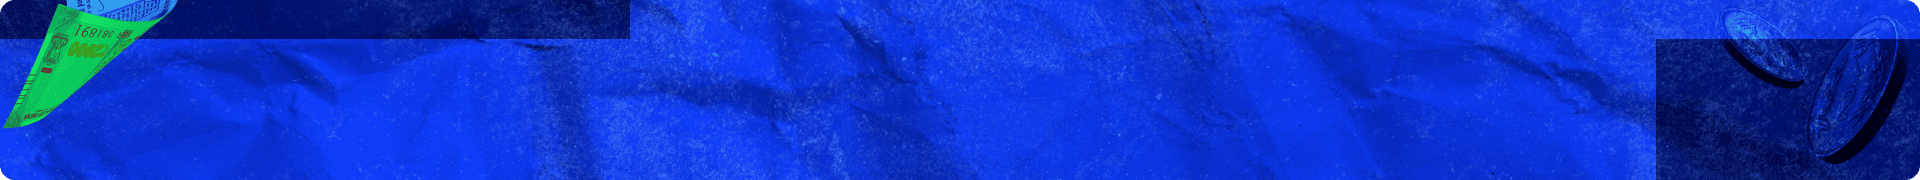
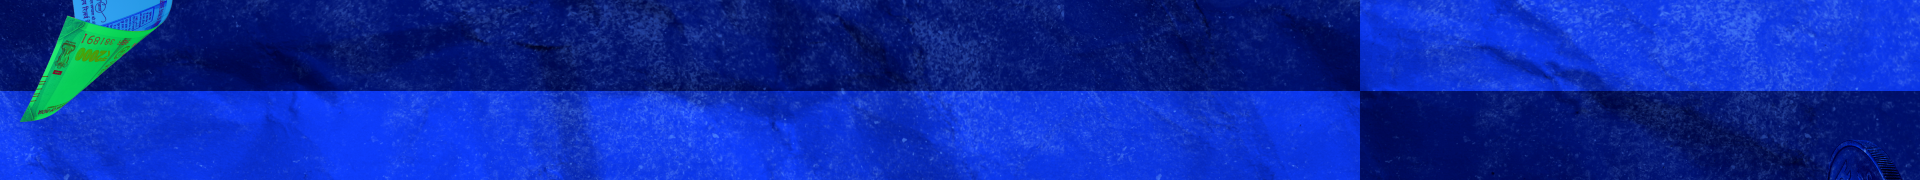
Fix/rewind-feedback-changes (#17041)
* fix feedback for merchant/industry growth

* design fixes

* changed share text for twitter

* change images

* fix image

* removed double quotes

---------

diff --git a/web/js/merchant/components/RazorpayRewind/utils.tsx b/web/js/merchant/components/RazorpayRewind/utils.tsx
@@ -31,7 +31,7 @@ import { captureImage } from './imageUtils';
 import { RewindFonts } from './RazorpayRewind';
 
 export const postContent =
-  'My numbers have quite the story to share this quarter! #RazorpaySnapshot';
+  'Just relived my year in payments. Spoiler alert: we crushed it in FY2024! #RazorpayRewind2025';
 
 export const trackPaymentsRecapEvent = ({
   objectName,
@@ -661,16 +661,16 @@ export const getSlides = ({ data, isMobile = false, isTablet = false, isSmallMob
           <TextWrapper
             top={getSize({
               mobileValue: '37vw',
-              tabletValue: '10vw',
-              defaultValue: '70px',
+              tabletValue: '7vw',
+              defaultValue: '50px',
               smallMobileValue: '36vw',
             })}
             right={getSize({ mobileValue: 'auto', tabletValue: 'auto', defaultValue: 'auto' })}
             left={getSize({ mobileValue: '14vw', tabletValue: '12vw', defaultValue: '80px' })}
             fontSize={getSize({
               mobileValue: '16vw',
-              tabletValue: '18vw',
-              defaultValue: '150px',
+              tabletValue: '23vw',
+              defaultValue: '165px',
               smallMobileValue: '16vw',
             })}
             fontFamily={RewindFonts.SnugSharp}
@@ -691,16 +691,16 @@ export const getSlides = ({ data, isMobile = false, isTablet = false, isSmallMob
           <TextWrapper
             top={getSize({
               mobileValue: '37vw',
-              tabletValue: '10vw',
-              defaultValue: '70px',
+              tabletValue: '7vw',
+              defaultValue: '50px',
               smallMobileValue: '36vw',
             })}
             right={getSize({ mobileValue: 'auto', tabletValue: 'auto', defaultValue: 'auto' })}
             left={getSize({ mobileValue: '14vw', tabletValue: '12vw', defaultValue: '80px' })}
             fontSize={getSize({
               mobileValue: '16vw',
-              tabletValue: '18vw',
-              defaultValue: '150px',
+              tabletValue: '23vw',
+              defaultValue: '165px',
               smallMobileValue: '16vw',
             })}
             fontFamily={RewindFonts.SnugSharp}
@@ -731,7 +731,7 @@ const linkedinBase = 'https://www.linkedin.com/shareArticle';
 export const socialShare = ({ componentRef, isMobile, isTablet = false, type }) => {
   let mediaUrl;
 
-  const mediaMsg = window.encodeURIComponent(`"${postContent}"`);
+  const mediaMsg = window.encodeURIComponent(`${postContent}`);
 
   if (['facebook', 'twitter', 'linkedin'].includes(type) && !isMobile) {
     captureImage(componentRef, isTablet, 'download');

diff --git a/web/js/merchant/components/RazorpayRewind/styled.tsx b/web/js/merchant/components/RazorpayRewind/styled.tsx
@@ -66,8 +66,9 @@ export const StyledIcon = styled.div(
 export const BannerText = styled.div<{ isMobileorTabletModified?: boolean }>`
   color: white;
   font-family: 'TASA Orbiter Display', sans-serif;
-  font-size: ${({ isMobileorTabletModified }) => (isMobileorTabletModified ? '16px' : '30px')};
+  font-size: ${({ isMobileorTabletModified }) => (isMobileorTabletModified ? '16px' : '26px')};
   width: ${({ isMobileorTabletModified }) => (!isMobileorTabletModified ? '300px' : undefined)};
+  line-height: 108%;
 `;
 
 export const BannerBtn = styled.button<{ isMobileBanner: boolean }>(
